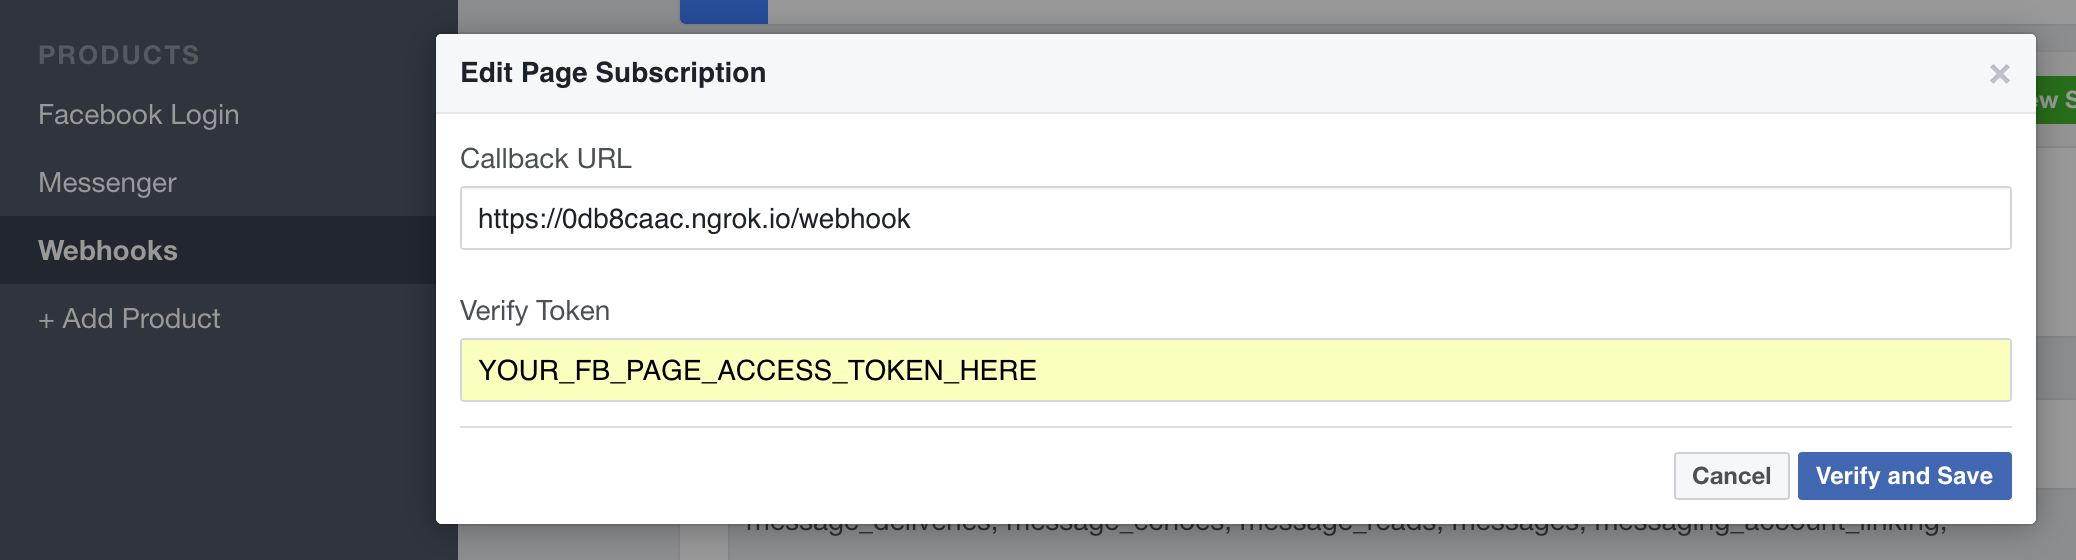
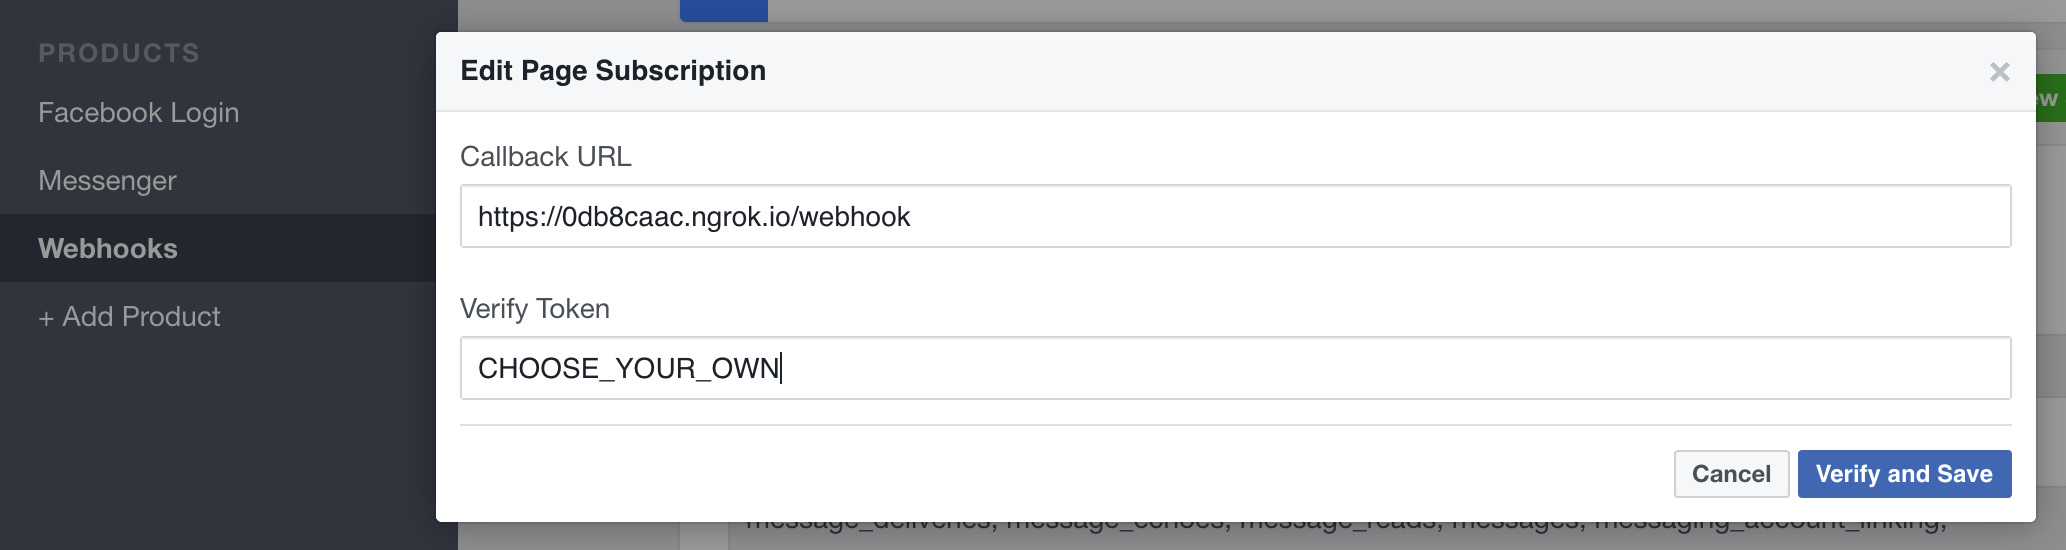
doc(readme): update readme according to env variables change, add separator headlines

diff --git a/README.md b/README.md
@@ -2,7 +2,7 @@
 
 A Facebook Messenger Bot Example in Clojure
 
-### Setup
+### Facebook and app setup
 
 1. Setup a Facebook Page, Facebook app, create a Page Access Token and link the app to the page by following this [step-by-step guide](https://github.com/prometheus-ai/fb-messenger-clj/wiki/Facebook-Setup).
 
@@ -10,23 +10,26 @@ A Facebook Messenger Bot Example in Clojure
 
 3. Extract it into the `/lemmings/clojure/projects` directory.
 
-4. Start a new VM shell session via `vagrant ssh`
+4. Provide your Facebook Page Access Token, Verify Token and Page Secret for local development by creating a file called `profiles.clj` in your working directory `<your-project-name>/profiles.clj`
 
-5. In the VM shell change into the facebook-example project directory
+		{:dev {:env {:page-access-token "<REPLACE>"
+		   		   	 :verify-token "<REPLACE>"}}}
+		   		   	 
+### Starting the development environment
+
+1. Start a new VM shell session via `vagrant ssh` in your terminal.
+
+2. Once logged in to the VM shell change into the facebook-example project directory
 
 		cd 02-facebook-example/
 
-6. Run `ngrok http 3000` ([read more about ngrok](https://ngrok.com))
+3. Run `ngrok http 3000` ([read more about ngrok](https://ngrok.com))
 
 	![ngrok Server](resources/doc/images/ngrok.png)
 
-7. Start another new VM shell session via `vagrant ssh`
+4. Start another new VM shell session via `vagrant ssh` in a new terminal window.
 
-8. Add your Facebook Page Access Token to your environment
-
-		export FB_PAGE_ACCESS_TOKEN="<YOUR_FB_PAGE_ACCESS_TOKEN>"
-
-9. Start the local server
+5. Start the local server
 
 		lein ring server-headless
 
@@ -34,25 +37,72 @@ A Facebook Messenger Bot Example in Clojure
 	
 	Via the [lein-ring doc](https://github.com/weavejester/lein-ring): by default, this command attempts to find a free port, starting at 3000.
 
-10. Visit the https URL as shown in step 4.  
+### Check if the app is running
+
+1. Visit the https URL of the ngrok process you've started earlier in this guide.  
 	E.g. `https://0db8caac.ngrok.io`
 	
 	If everything went right, you'll see "Hello Lemming :)" in your Browser 🎈
 	
 	![Hello Lemming](resources/doc/images/welcome-browser.png)
 
-11. In your Facebook Developer App go to "Webhooks" in the left sidebar and add `Callback URL` and `Verify Token` accordingly:
+2. In your Facebook Developer App go to "Webhooks" in the left sidebar and add `Callback URL` and `Verify Token` accordingly:
 
 	![Webhook Setup](resources/doc/images/webhook-setup.png)
 
-12. Click "Verify and Save" and your app is connected to Facebook's Messenger API 🎈
+3. Click "Verify and Save" and your app is connected to Facebook's Messenger API. 🎈
 
 	![Webhook Success](resources/doc/images/webhook-success.png)
 	
-13. Go to your Facebook Page and send a message and your bot echo's your input. Congratulations!💧
+4. Go to your Facebook Page and send a message and your bot echo's your input. Congratulations!💧
 
 	![Echo Bot](resources/doc/images/echo-bot.png)
 	
-Check out the code to find out more 🙂
-		
+Check out the code to find out more. Also try sending "image" or "help" to your bot. 🙂
+
+### Deploying to Heroku
+
+1. If you haven't yet, create an account at [Heroku](https://signup.heroku.com/dc).
+
+2. In the VM shell session login to your Heroku account via `heroku login`.
+
+	```
+	-> heroku login
+	Enter your Heroku credentials.
+	Email:
+	Password:
+	```
+
+3. Create an app on Heroku for your bot. Type `heroku create` into your command prompt at the root of the project.
+
+	```
+	-> heroku create
+	Creating dore-heathes-1405... done, stack is cedar-14
+	https://dore-heathes-1405.herokuapp.com/ | https://git.heroku.com/dore-heathes-1405.git
+	Git remote heroku added
+	```
+
+4. Do a command line `heroku config` for each one of your tokens:
+
+	```
+	heroku config:set PAGE_ACCESS_TOKEN=your_page_access_token
+	heroku config:set VERIFY_TOKEN=your_verify_token
+	```
+
+5. Eventually, you can push all changes to Heroku with:
+
+	`git push heroku master`
+
+	You should see it deploy. 🍵
+
+6. Now we need to setup your app on Facebook with your app hosted on Heroku.
+
+	As you've done it earlier for your local environment, in your Facebook Developer App click on the "Webhooks" section in the left sidebar and add `Callback URL` (e.g. `https://dore-heathes-1405.herokuapp.com/webhook`) and `Verify Token` accordingly.
+
+7. Click "Verify and Save" and your Heroku app is connected to Facebook's Messenger API 🎈
+	
+8. Go to your Facebook Page and send a message and your bot should echo your input again. Kudos! 🙂💧
+
+	![Echo Bot](resources/doc/images/echo-bot.png)
+
 Note: This clojure app is ready for deployment on Heroku and based on [Heroku's Clojure Getting Started Example](https://github.com/heroku/clojure-getting-started).
